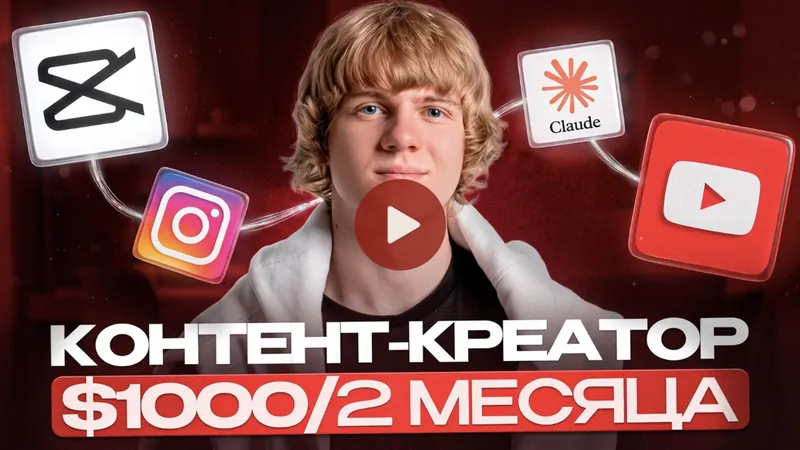
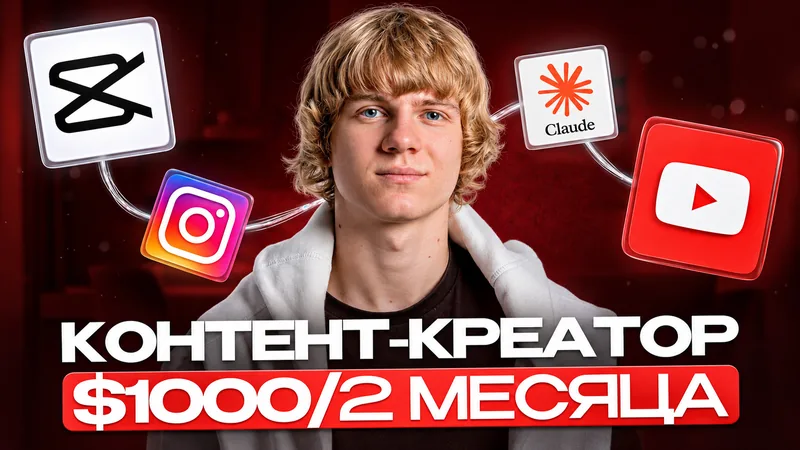
Блок 3: чистая обложка, стеклянная рамка с блюром, компактный play с пульсом, лёгкая тень
Claude-Session: https://claude.ai/code/session_01Rceo4mzvJTDE4e9fVLBVQp

diff --git a/site/index.html b/site/index.html
@@ -19,19 +19,19 @@
 <link rel="preconnect" href="https://fonts.gstatic.com" crossorigin>
 <link rel="preload" href="fonts/fira-xc-900.woff2" as="font" type="font/woff2" crossorigin>
 <link rel="preload" href="img/wordmark.webp" as="image" type="image/webp">
-<link rel="preload" href="img/valentin-poster.webp?v=20261117i" as="image" type="image/webp">
-<link rel="stylesheet" href="styles/tokens.css?v=20261117i">
-<link rel="stylesheet" href="styles/preloader.css?v=20261117i">
-<link rel="stylesheet" href="styles/blocks/00-header.css?v=20261117i">
-<link rel="stylesheet" href="styles/blocks/01-hero.css?v=20261117i">
-<link rel="stylesheet" href="styles/blocks/02-people.css?v=20261117i">
-<link rel="stylesheet" href="styles/blocks/03-lesson.css?v=20261117i">
-<script src="scripts/live-photo.js?v=20261117i" defer></script>
-<script src="scripts/hero-fit.js?v=20261117i" defer></script>
-<script src="scripts/hero.js?v=20261117i" defer></script>
-<script src="scripts/preloader.js?v=20261117i" defer></script>
-<script src="scripts/people.js?v=20261117i" defer></script>
-<script src="scripts/lesson.js?v=20261117i" defer></script>
+<link rel="preload" href="img/valentin-poster.webp?v=20261117j" as="image" type="image/webp">
+<link rel="stylesheet" href="styles/tokens.css?v=20261117j">
+<link rel="stylesheet" href="styles/preloader.css?v=20261117j">
+<link rel="stylesheet" href="styles/blocks/00-header.css?v=20261117j">
+<link rel="stylesheet" href="styles/blocks/01-hero.css?v=20261117j">
+<link rel="stylesheet" href="styles/blocks/02-people.css?v=20261117j">
+<link rel="stylesheet" href="styles/blocks/03-lesson.css?v=20261117j">
+<script src="scripts/live-photo.js?v=20261117j" defer></script>
+<script src="scripts/hero-fit.js?v=20261117j" defer></script>
+<script src="scripts/hero.js?v=20261117j" defer></script>
+<script src="scripts/preloader.js?v=20261117j" defer></script>
+<script src="scripts/people.js?v=20261117j" defer></script>
+<script src="scripts/lesson.js?v=20261117j" defer></script>
 </head>
 <body>
 
@@ -60,7 +60,7 @@
   <div class="wm"><img src="img/wordmark.webp" alt="" width="1600" height="471"></div>
 
   <div class="pt" id="pt">
-    <img src="img/valentin-poster.webp?v=20261117i" alt="Валентин Сушнёв" width="744" height="690" fetchpriority="high">
+    <img src="img/valentin-poster.webp?v=20261117j" alt="Валентин Сушнёв" width="744" height="690" fetchpriority="high">
     <canvas id="live" width="744" height="690" aria-hidden="true"></canvas>
   </div>
 
@@ -88,13 +88,13 @@
 <section class="ppl" id="people" aria-labelledby="ppl-h">
   <h2 class="h2" id="ppl-h">Это сделали люди <span class="hl">без опыта</span></h2>
   <ul class="ppl-row">
-    <li class="pc"><a href="#alena"><span class="ph"><img src="img/people/alena.webp?v=20261117i" alt="Алёна" width="356" height="475" loading="lazy" decoding="async"></span><span class="nm">Алёна</span><span class="cp">$3&nbsp;000 в месяц с ребёнком на руках</span></a></li>
-    <li class="pc"><a href="#ivan"><span class="ph"><img src="img/people/ivan.webp?v=20261117i" alt="Иван" width="360" height="480" loading="lazy" decoding="async"></span><span class="nm">Иван</span><span class="cp">из Таиланда на $2&nbsp;000 в месяц</span></a></li>
-    <li class="pc"><a href="#veronika"><span class="ph"><img src="img/people/veronika.webp?v=20261117i" alt="Вероника" width="264" height="352" loading="lazy" decoding="async"></span><span class="nm">Вероника</span><span class="cp">с завода к $4&nbsp;000+</span></a></li>
-    <li class="pc"><a href="#artem"><span class="ph"><img src="img/people/artem.webp?v=20261117i" alt="Артём" width="318" height="424" loading="lazy" decoding="async"></span><span class="nm">Артём</span><span class="cp">24 своих <span class="nw">YouTube-канала</span></span></a></li>
-    <li class="pc"><a href="#gaiduk"><span class="ph"><img src="img/people/gaiduk.webp?v=20261117i" alt="Иван Гайдук" width="330" height="440" loading="lazy" decoding="async"></span><span class="nm">Иван Гайдук</span><span class="cp">от оператора до партнёра агентства</span></a></li>
-    <li class="pc"><a href="#nastya"><span class="ph"><img src="img/people/nastya.webp?v=20261117i" alt="Настя" width="204" height="272" loading="lazy" decoding="async"></span><span class="nm">Настя</span><span class="cp">$500 ещё на обучении</span></a></li>
-    <li class="pc pc-2"><a href="#reality"><span class="ph"><img src="img/people/angelina.webp?v=20261117i" alt="Ангелина" width="276" height="368" loading="lazy" decoding="async"><img src="img/people/ostap.webp?v=20261117i" alt="Остап" width="294" height="392" loading="lazy" decoding="async"></span><span class="nm">Ангелина и Остап</span><span class="cp">~$2&nbsp;000 за 10 дней</span></a></li>
+    <li class="pc"><a href="#alena"><span class="ph"><img src="img/people/alena.webp?v=20261117j" alt="Алёна" width="356" height="475" loading="lazy" decoding="async"></span><span class="nm">Алёна</span><span class="cp">$3&nbsp;000 в месяц с ребёнком на руках</span></a></li>
+    <li class="pc"><a href="#ivan"><span class="ph"><img src="img/people/ivan.webp?v=20261117j" alt="Иван" width="360" height="480" loading="lazy" decoding="async"></span><span class="nm">Иван</span><span class="cp">из Таиланда на $2&nbsp;000 в месяц</span></a></li>
+    <li class="pc"><a href="#veronika"><span class="ph"><img src="img/people/veronika.webp?v=20261117j" alt="Вероника" width="264" height="352" loading="lazy" decoding="async"></span><span class="nm">Вероника</span><span class="cp">с завода к $4&nbsp;000+</span></a></li>
+    <li class="pc"><a href="#artem"><span class="ph"><img src="img/people/artem.webp?v=20261117j" alt="Артём" width="318" height="424" loading="lazy" decoding="async"></span><span class="nm">Артём</span><span class="cp">24 своих <span class="nw">YouTube-канала</span></span></a></li>
+    <li class="pc"><a href="#gaiduk"><span class="ph"><img src="img/people/gaiduk.webp?v=20261117j" alt="Иван Гайдук" width="330" height="440" loading="lazy" decoding="async"></span><span class="nm">Иван Гайдук</span><span class="cp">от оператора до партнёра агентства</span></a></li>
+    <li class="pc"><a href="#nastya"><span class="ph"><img src="img/people/nastya.webp?v=20261117j" alt="Настя" width="204" height="272" loading="lazy" decoding="async"></span><span class="nm">Настя</span><span class="cp">$500 ещё на обучении</span></a></li>
+    <li class="pc pc-2"><a href="#reality"><span class="ph"><img src="img/people/angelina.webp?v=20261117j" alt="Ангелина" width="276" height="368" loading="lazy" decoding="async"><img src="img/people/ostap.webp?v=20261117j" alt="Остап" width="294" height="392" loading="lazy" decoding="async"></span><span class="nm">Ангелина и Остап</span><span class="cp">~$2&nbsp;000 за 10 дней</span></a></li>
   </ul>
 </section>
 
@@ -102,7 +102,7 @@
 <section class="les" id="lesson" aria-labelledby="les-h">
   <div class="les-in">
     <div class="les-frame"><div class="les-card" id="les-card" data-src="https://vi-motion.pro/assets/video/vsl.mp4">
-      <img class="les-cover" src="img/lesson/cover-1600.webp?v=20261117i" srcset="img/lesson/cover-800.webp?v=20261117i 800w, img/lesson/cover-1600.webp?v=20261117i 1600w, img/lesson/cover-2400.webp?v=20261117i 2400w" sizes="(max-width:720px) calc(100vw - 32px), (max-width:1180px) calc(100vw - 64px), min(calc(100vw - 112px), 1400px)" alt="Видео-урок Валентина: контент-креатор, $1000 за 2 месяца" width="2400" height="1350" loading="lazy" decoding="async">
+      <img class="les-cover" src="img/lesson/cover-1200.webp?v=20261117j" srcset="img/lesson/cover-800.webp?v=20261117j 800w, img/lesson/cover-1200.webp?v=20261117j 1200w, img/lesson/cover-1672.webp?v=20261117j 1672w" sizes="(max-width:720px) calc(100vw - 32px), (max-width:1180px) calc(100vw - 64px), min(calc(100vw - 112px), 1400px)" alt="Видео-урок Валентина: контент-креатор, $1000 за 2 месяца" width="1672" height="941" loading="lazy" decoding="async">
       <button class="les-play" type="button" aria-label="Смотреть урок"><svg viewBox="0 0 24 24" aria-hidden="true"><path d="M8 5.2v13.6a.8.8 0 0 0 1.22.68l10.6-6.8a.8.8 0 0 0 0-1.36L9.22 4.52A.8.8 0 0 0 8 5.2z"/></svg></button>
     </div></div>
     <h2 class="h2 les-h" id="les-h">Мои <span class="hl">7 лет</span> в контенте в одном уроке</h2>

diff --git a/site/styles/blocks/03-lesson.css b/site/styles/blocks/03-lesson.css
@@ -6,21 +6,28 @@
 .les{padding:0 0 120px;overflow:hidden}
 .les-in{padding:0 var(--m);display:flex;flex-direction:column;align-items:center;text-align:center}
 
-/* обложка в светлой рамке со скруглением, как в референсе клиента; рамка растёт целиком */
-.les-frame{--p:1;width:100%;max-width:1400px;padding:8px;border-radius:30px;background:rgba(255,255,255,.5);
-  box-shadow:inset 0 0 0 1px rgba(255,255,255,.8),0 0 0 1px rgba(17,17,17,.07),0 40px 90px -36px rgba(70,0,0,.5);
+/* обложка в стеклянной рамке: полупрозрачная, под ней размытая копия обложки, тонкий светлый кант, скругление.
+   Рамка растёт целиком (вау-момент) */
+.les-frame{--p:1;position:relative;width:100%;max-width:1400px;padding:10px;border-radius:30px;isolation:isolate;overflow:hidden;
+  box-shadow:0 0 0 1px rgba(17,17,17,.06),0 10px 28px -14px rgba(40,10,5,.28);
   transform:scale(calc(.88 + .12*var(--p)));transform-origin:50% 0;will-change:transform}
-.les-card{position:relative;width:100%;aspect-ratio:16/9;background:#2a0705;overflow:hidden;border-radius:22px;isolation:isolate}
-.les-card::after{content:"";position:absolute;inset:0;border-radius:inherit;box-shadow:inset 0 0 0 1px rgba(255,255,255,.18);pointer-events:none;z-index:2}
+.les-frame::before{content:"";position:absolute;inset:-24px;z-index:-2;background:url(../../img/lesson/cover-blur.webp?v=20261117j) center/cover;filter:blur(18px) saturate(1.15)}
+.les-frame::after{content:"";position:absolute;inset:0;z-index:-1;border-radius:inherit;
+  background:linear-gradient(160deg,rgba(255,255,255,.55),rgba(255,255,255,.22) 45%,rgba(255,255,255,.38));
+  box-shadow:inset 0 0 0 1px rgba(255,255,255,.7),inset 0 1px 0 rgba(255,255,255,.9)}
+@supports (backdrop-filter:blur(1px)){.les-frame::after{backdrop-filter:blur(6px)}}
+.les-card{position:relative;width:100%;aspect-ratio:16/9;background:#2a0705;overflow:hidden;border-radius:21px;isolation:isolate}
+.les-card::after{content:"";position:absolute;inset:0;border-radius:inherit;box-shadow:inset 0 0 0 1px rgba(255,255,255,.22);pointer-events:none;z-index:2}
 .les-cover{width:100%;height:100%;object-fit:cover;transition:transform .9s var(--ease)}
 .les-card:not(.is-on):hover .les-cover{transform:scale(1.025)}
 
-/* своя кнопка play ровно поверх нарисованной на обложке (центр 50%/49,8%, диаметр 11,4% ширины) */
-.les-play{position:absolute;left:50%;top:49.8%;width:11.9%;aspect-ratio:1;translate:-50% -50%;border:0;border-radius:50%;cursor:pointer;
-  background:var(--red);color:#fff;display:grid;place-items:center;box-shadow:0 10px 40px rgba(40,0,0,.45);transition:scale .5s var(--ease),background .25s}
-.les-play svg{width:34%;height:34%;fill:currentColor;margin-left:4%}
-.les-play::before{content:"";position:absolute;inset:0;border-radius:50%;border:1.5px solid rgba(255,255,255,.6);animation:les-pulse 2.6s var(--ease) infinite;pointer-events:none}
-@keyframes les-pulse{0%{scale:1;opacity:.8}100%{scale:1.35;opacity:0}}
+/* своя кнопка play: обложка чистая, кнопка компактная */
+.les-play{position:absolute;isolation:isolate;left:50%;top:50%;width:92px;aspect-ratio:1;translate:-50% -50%;border:0;border-radius:50%;cursor:pointer;
+  background:var(--red);color:#fff;display:grid;place-items:center;box-shadow:0 10px 34px rgba(40,0,0,.5);transition:scale .5s var(--ease),background .25s}
+.les-play svg{width:36%;height:36%;fill:currentColor;margin-left:6%}
+.les-play::before{content:"";position:absolute;inset:0;border-radius:50%;border:2px solid rgba(255,255,255,.7);animation:les-pulse 2.6s var(--ease) infinite;pointer-events:none}
+.les-play::after{content:"";position:absolute;inset:0;border-radius:50%;background:var(--red);z-index:-1;animation:les-pulse 2.6s var(--ease) 1.3s infinite;pointer-events:none}
+@keyframes les-pulse{0%{scale:1;opacity:.85}100%{scale:1.7;opacity:0}}
 .les-card:hover .les-play{scale:1.04;background:var(--red-hover)}
 .les-play:focus-visible{outline:3px solid #fff;outline-offset:4px}
 .les-card video{position:absolute;inset:0;width:100%;height:100%;background:#000;object-fit:contain}
@@ -44,8 +51,9 @@
   .les-h{margin-top:64px;font-size:min(5.4vw,56px)}
   .les-sub{font-size:19px}
   .les-btn{height:58px;padding:0 28px;font-size:14px}
-  .les-frame{padding:6px;border-radius:24px}
-  .les-card{border-radius:18px}
+  .les-frame{padding:8px;border-radius:24px}
+  .les-card{border-radius:17px}
+  .les-play{width:80px}
   .tape{margin-top:96px}
   .tape span{font-size:34px}
 }
@@ -53,10 +61,10 @@
   .les{padding-bottom:72px}
   .les-h{margin-top:40px;font-size:min(10.2vw,42px)}
   .les-sub{margin-top:16px;font-size:17px}
-  .les-frame{padding:5px;border-radius:18px}
+  .les-frame{padding:6px;border-radius:18px}
   .les-card{border-radius:13px}
   .les-btn{margin-top:28px;width:100%;height:58px}
-  .les-play{width:14%}
+  .les-play{width:58px}
   .les-play::before{border-width:1.5px}
   .tape{margin-top:72px;padding:14px 0 12px;transform:rotate(-3deg)}
   .tape span{font-size:26px}

diff --git a/site/scripts/live-photo.js b/site/scripts/live-photo.js
@@ -70,7 +70,7 @@
   var mq=matchMedia('(max-width:720px)'),cur='';
   function setSrc(){
     /* версия в адресе: при замене файла браузер не возьмёт старое видео из кеша */
-    var s=(mq.matches?'media/valentin-live-m.mp4':'media/valentin-live.mp4')+'?v=20261117i';
+    var s=(mq.matches?'media/valentin-live-m.mp4':'media/valentin-live.mp4')+'?v=20261117j';
     if(s===cur)return;
     cur=s;video.src=s;video.load();sync();
   }
